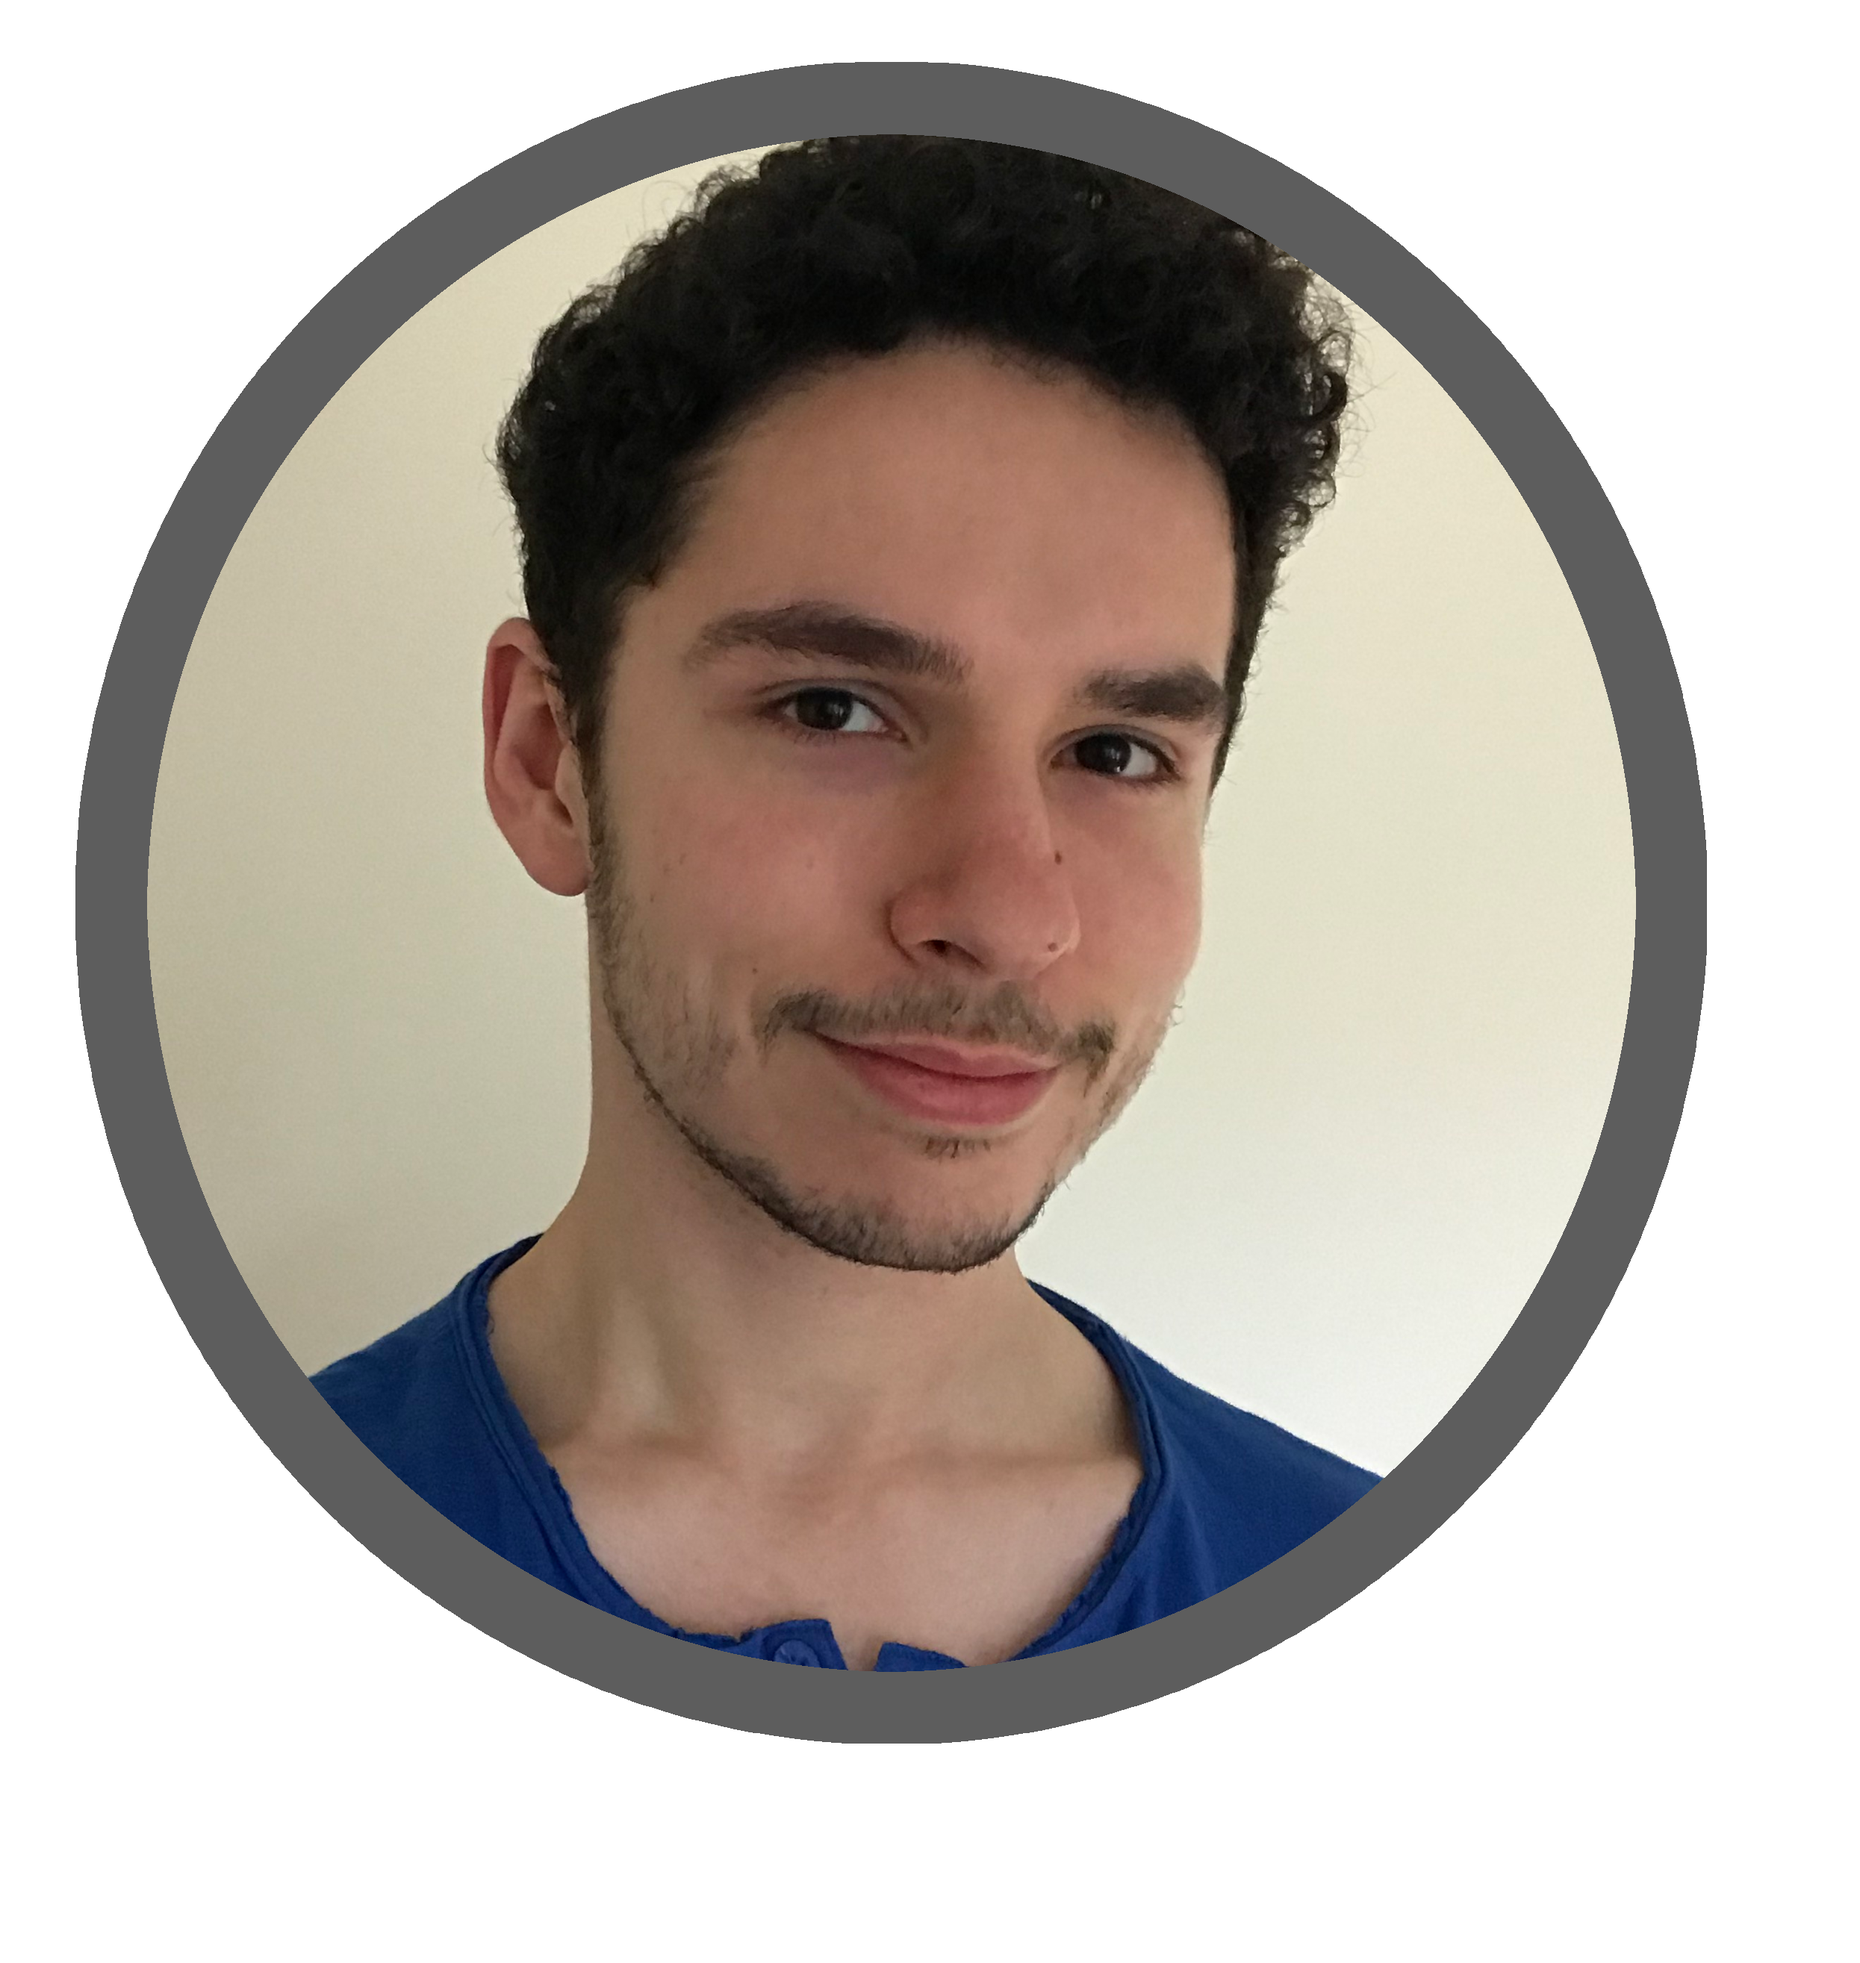
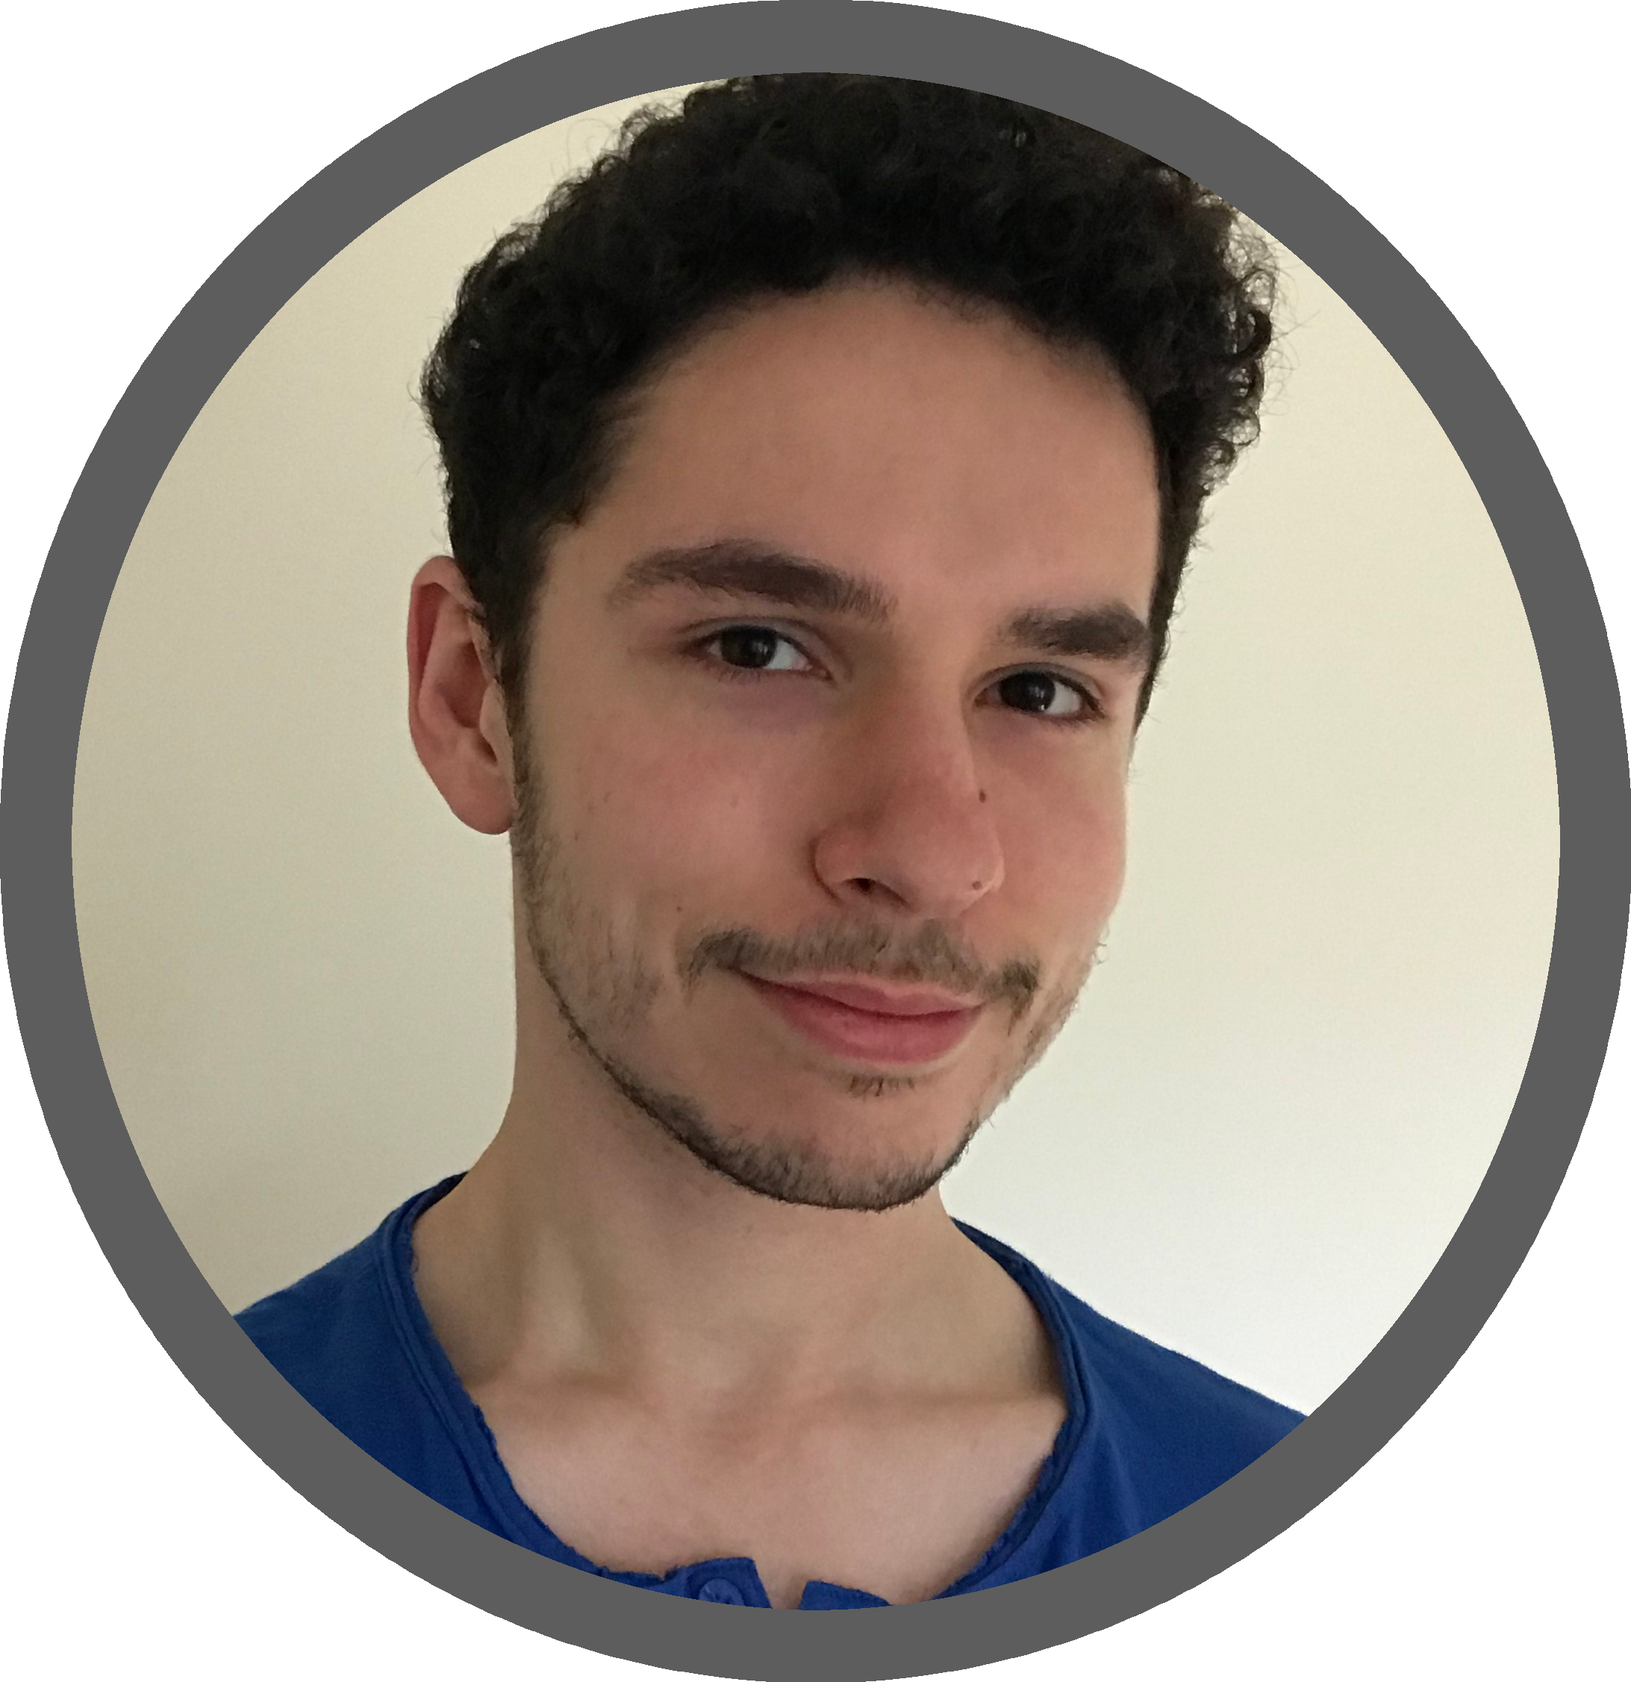
Main page sort of done

diff --git a/style.css b/style.css
@@ -38,6 +38,7 @@ footer {
     position: relative;
     object-fit: cover;
     padding: 0px;
+    background-position: 20px;
 }
 
 #welcome b {
@@ -84,29 +85,47 @@ footer {
 
 #name {
     font-weight: 100;
-    font-size: 40px;
+    font-size: 50px;
+    /* font-size: 3vw; */
+    /* background-color: seashell; */
+    margin-top: 0;
 }
 
 #profilepic {
-    width: 70%;
+    top: 15px;
+    position: absolute;
+    display: inline-block;
+    width: 15%;
+    /* width: 300px; */
+    margin-right: 20px;
+    bottom: 700px;
+    /* background-color: saddlebrown; */
+    /* margin-top: 0; */
+    padding-top: 0;
+    margin: 0 auto;
 }
 
 #aboutsection {
-    /* background-color: royalblue; */
     display: block;
     text-align: center;
+    /* background-color: slateblue; */
+    position: relative;
 }
 
 #summary {
     /* background-color: seagreen; */
     width: 20%;
+    height: fit-content;
     display: inline-block;
     text-align: left;
     margin-right: 5%;
+    margin-left: 330px;
+    bottom: 70px;
+    position: relative;
 }
 
 #textwall {
-    /*background-color: rosybrown;*/
+    /* background-color: rosybrown; */
     width: 25%;
     height: 100%;
     display: inline-block;
@@ -114,10 +133,14 @@ footer {
     margin-left: 5%;
     margin-top: 0 auto;
     padding: auto;
+    /* top: 10px; */
+    position: relative;
 }
 
 #textwall p {
+    /* font-size: 1.0vw; */
     font-size: large;
+    max-inline-size: 100%;
 }
 
 a {
@@ -207,6 +230,33 @@ hr.rounded {
 
 .secondaryBtn:active {
     border: 1px solid rgb(56, 56, 56);
+}
+
+.primaryButton {
+    font-family: 'Roboto', sans-serif;
+    border:  1px solid snow;
+    border-radius: 5px;
+    padding: 10px;
+    margin-bottom: 20px;
+    text-align: center;
+    text-decoration: none;
+    display: inline-block;
+    font-size: medium;
+}
+
+.primaryButton:hover {
+    opacity: 0.5;
+}
+
+#cvbtn {
+    display: block;
+    width: 40%;
+}
+
+#contactbtn {
+    text-align: center;
+    display: block;
+    width: 34%;
 }
 
 #textLink {

diff --git a/index.html b/index.html
@@ -30,14 +30,14 @@
   <div class="section">
     <h2 id="about">About me</h2>
     <div id="aboutsection">
+      <img id="profilepic" src="images/profpic.png" alt="A picture of me">
       <div id="summary">
-        <img id="profilepic" src="images/profpic.png" alt="A picture of me">
         <p id="name">Jakub Majkowski</p>
         <b>Student based in Warsaw, Poland</b>
         <br>
         <ul>
-          <li><a class="secondaryBtn" href="#contact">My CV</a></li> <! -- PLACEHOLDER!! -->
-          <li><a class="secondaryBtn" href="#contact">Contact me</a></li>
+          <li><button id="cvbtn" class="primaryButton">My CV</button></li> <! -- PLACEHOLDER!! -->
+          <li><a id="contactbtn" class="secondaryBtn" href="#contact">Contact me</a></li>
         </ul>
       </div>
   

diff --git a/script.js b/script.js
@@ -1,4 +1,5 @@
-var topPos = window.pageYOffset;
+const topPos = window.pageYOffset;
+var pageSize = window.pageSize;
 
 document.onscroll = function() {
   var newScrollPos = window.pageYOffset;
@@ -9,6 +10,10 @@ document.onscroll = function() {
   }
 }
 
+window.addEventListener('resize', adjust);
+
+
+
 function hideNavBar() {
     document.getElementsByTagName("nav")[0].style.top = "-100px";
     return;
@@ -17,4 +22,7 @@ function hideNavBar() {
 function showNavBar() {
     document.getElementsByTagName("nav")[0].style.top = "0px";
     return;
+}
+
+function adjust() {
 }
